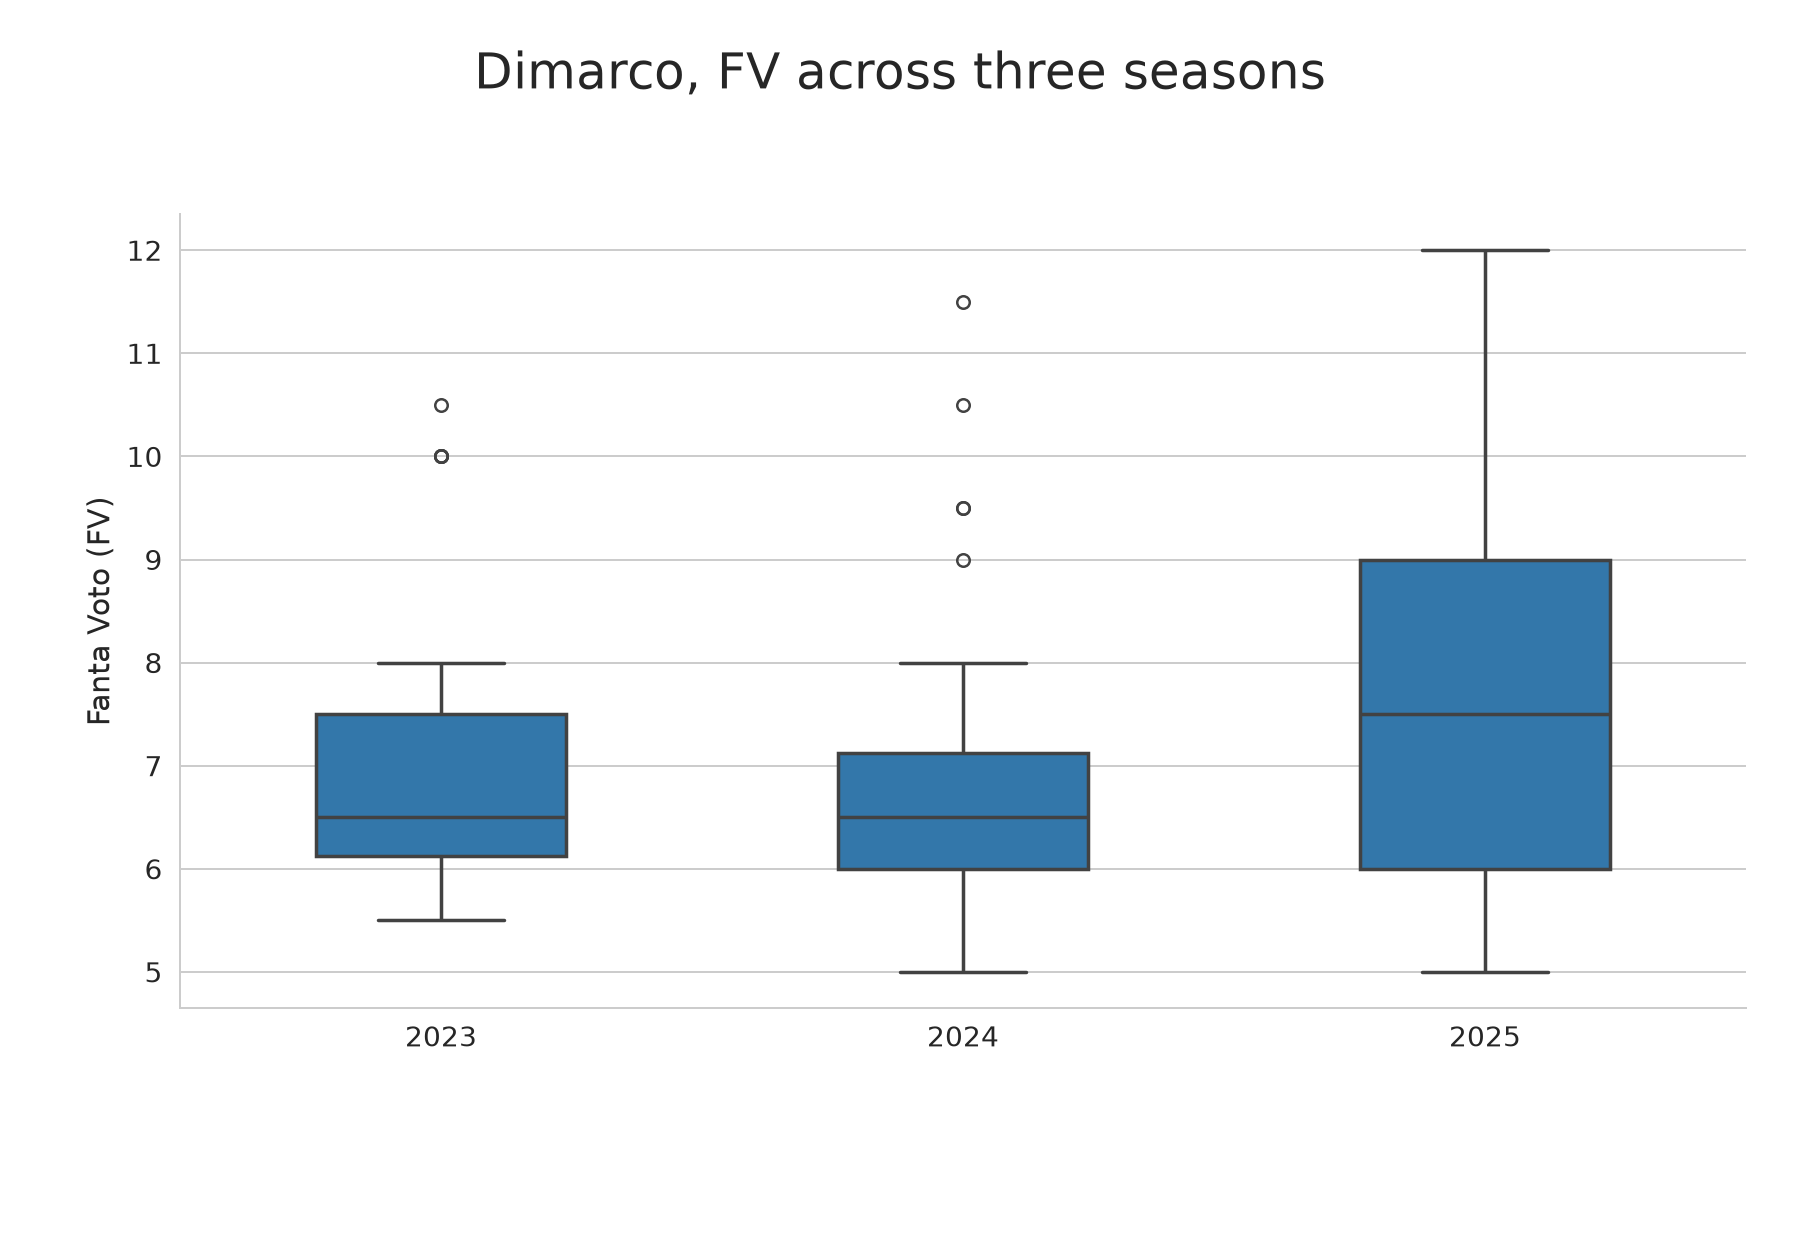
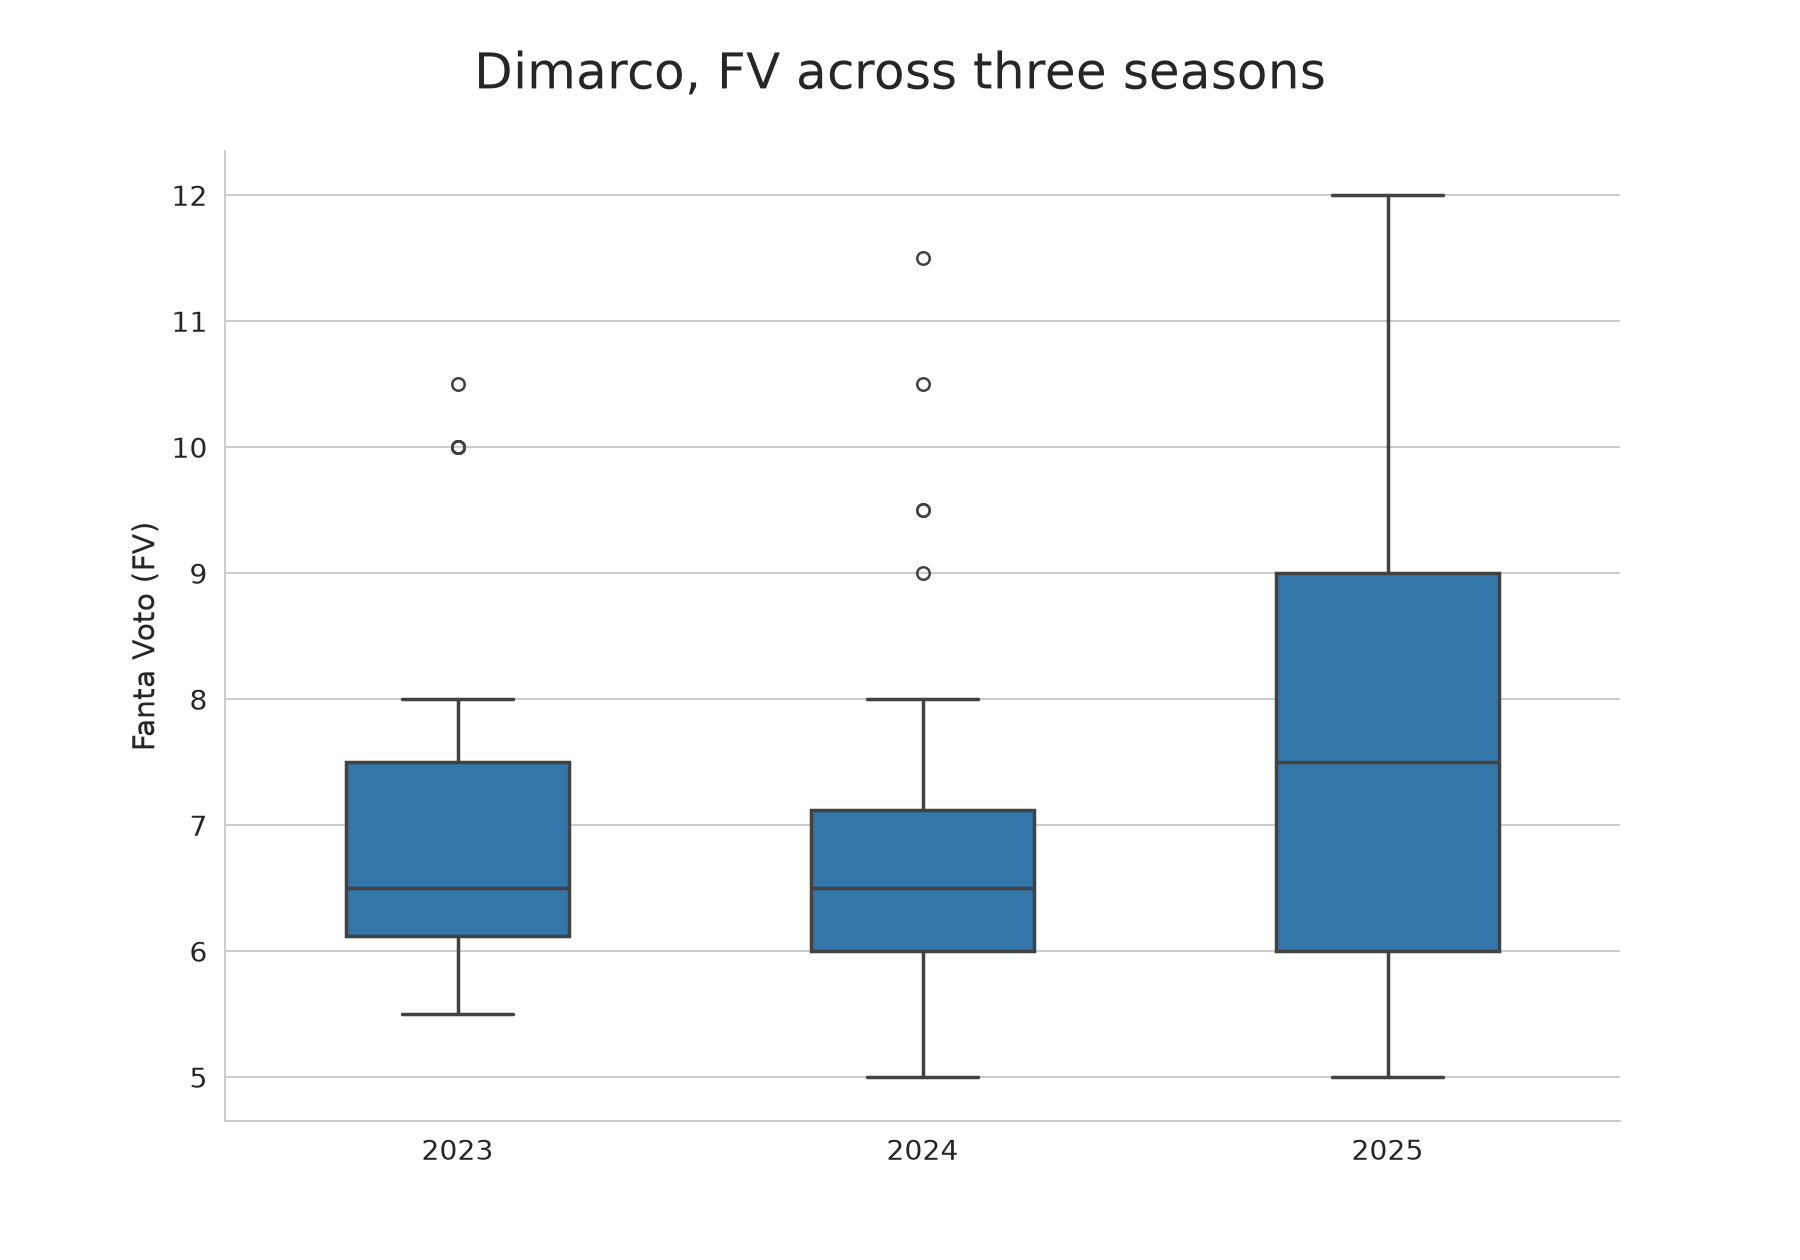
Dimarco plots updates

diff --git a/src/project/analysis/dimarco_boxplot.py b/src/project/analysis/dimarco_boxplot.py
@@ -55,7 +55,7 @@ def plot_dimarco_fv(data):
         #          "Box: middle 50% · Line: median · Whiskers: up to 1.5 × IQR · Points: outliers\n"
         #          "Dashed line: FV = 6 · n: non-null FV observations · Redazione Fantacalcio",
         #          fontsize=9, color="#475569", linespacing=1.7)
-        fig.subplots_adjust(left=0.10, right=0.97, top=0.83, bottom=0.20)
+        # fig.subplots_adjust(left=0.10, right=0.97, top=0.83, bottom=0.20)
     return fig, summary
 
 
